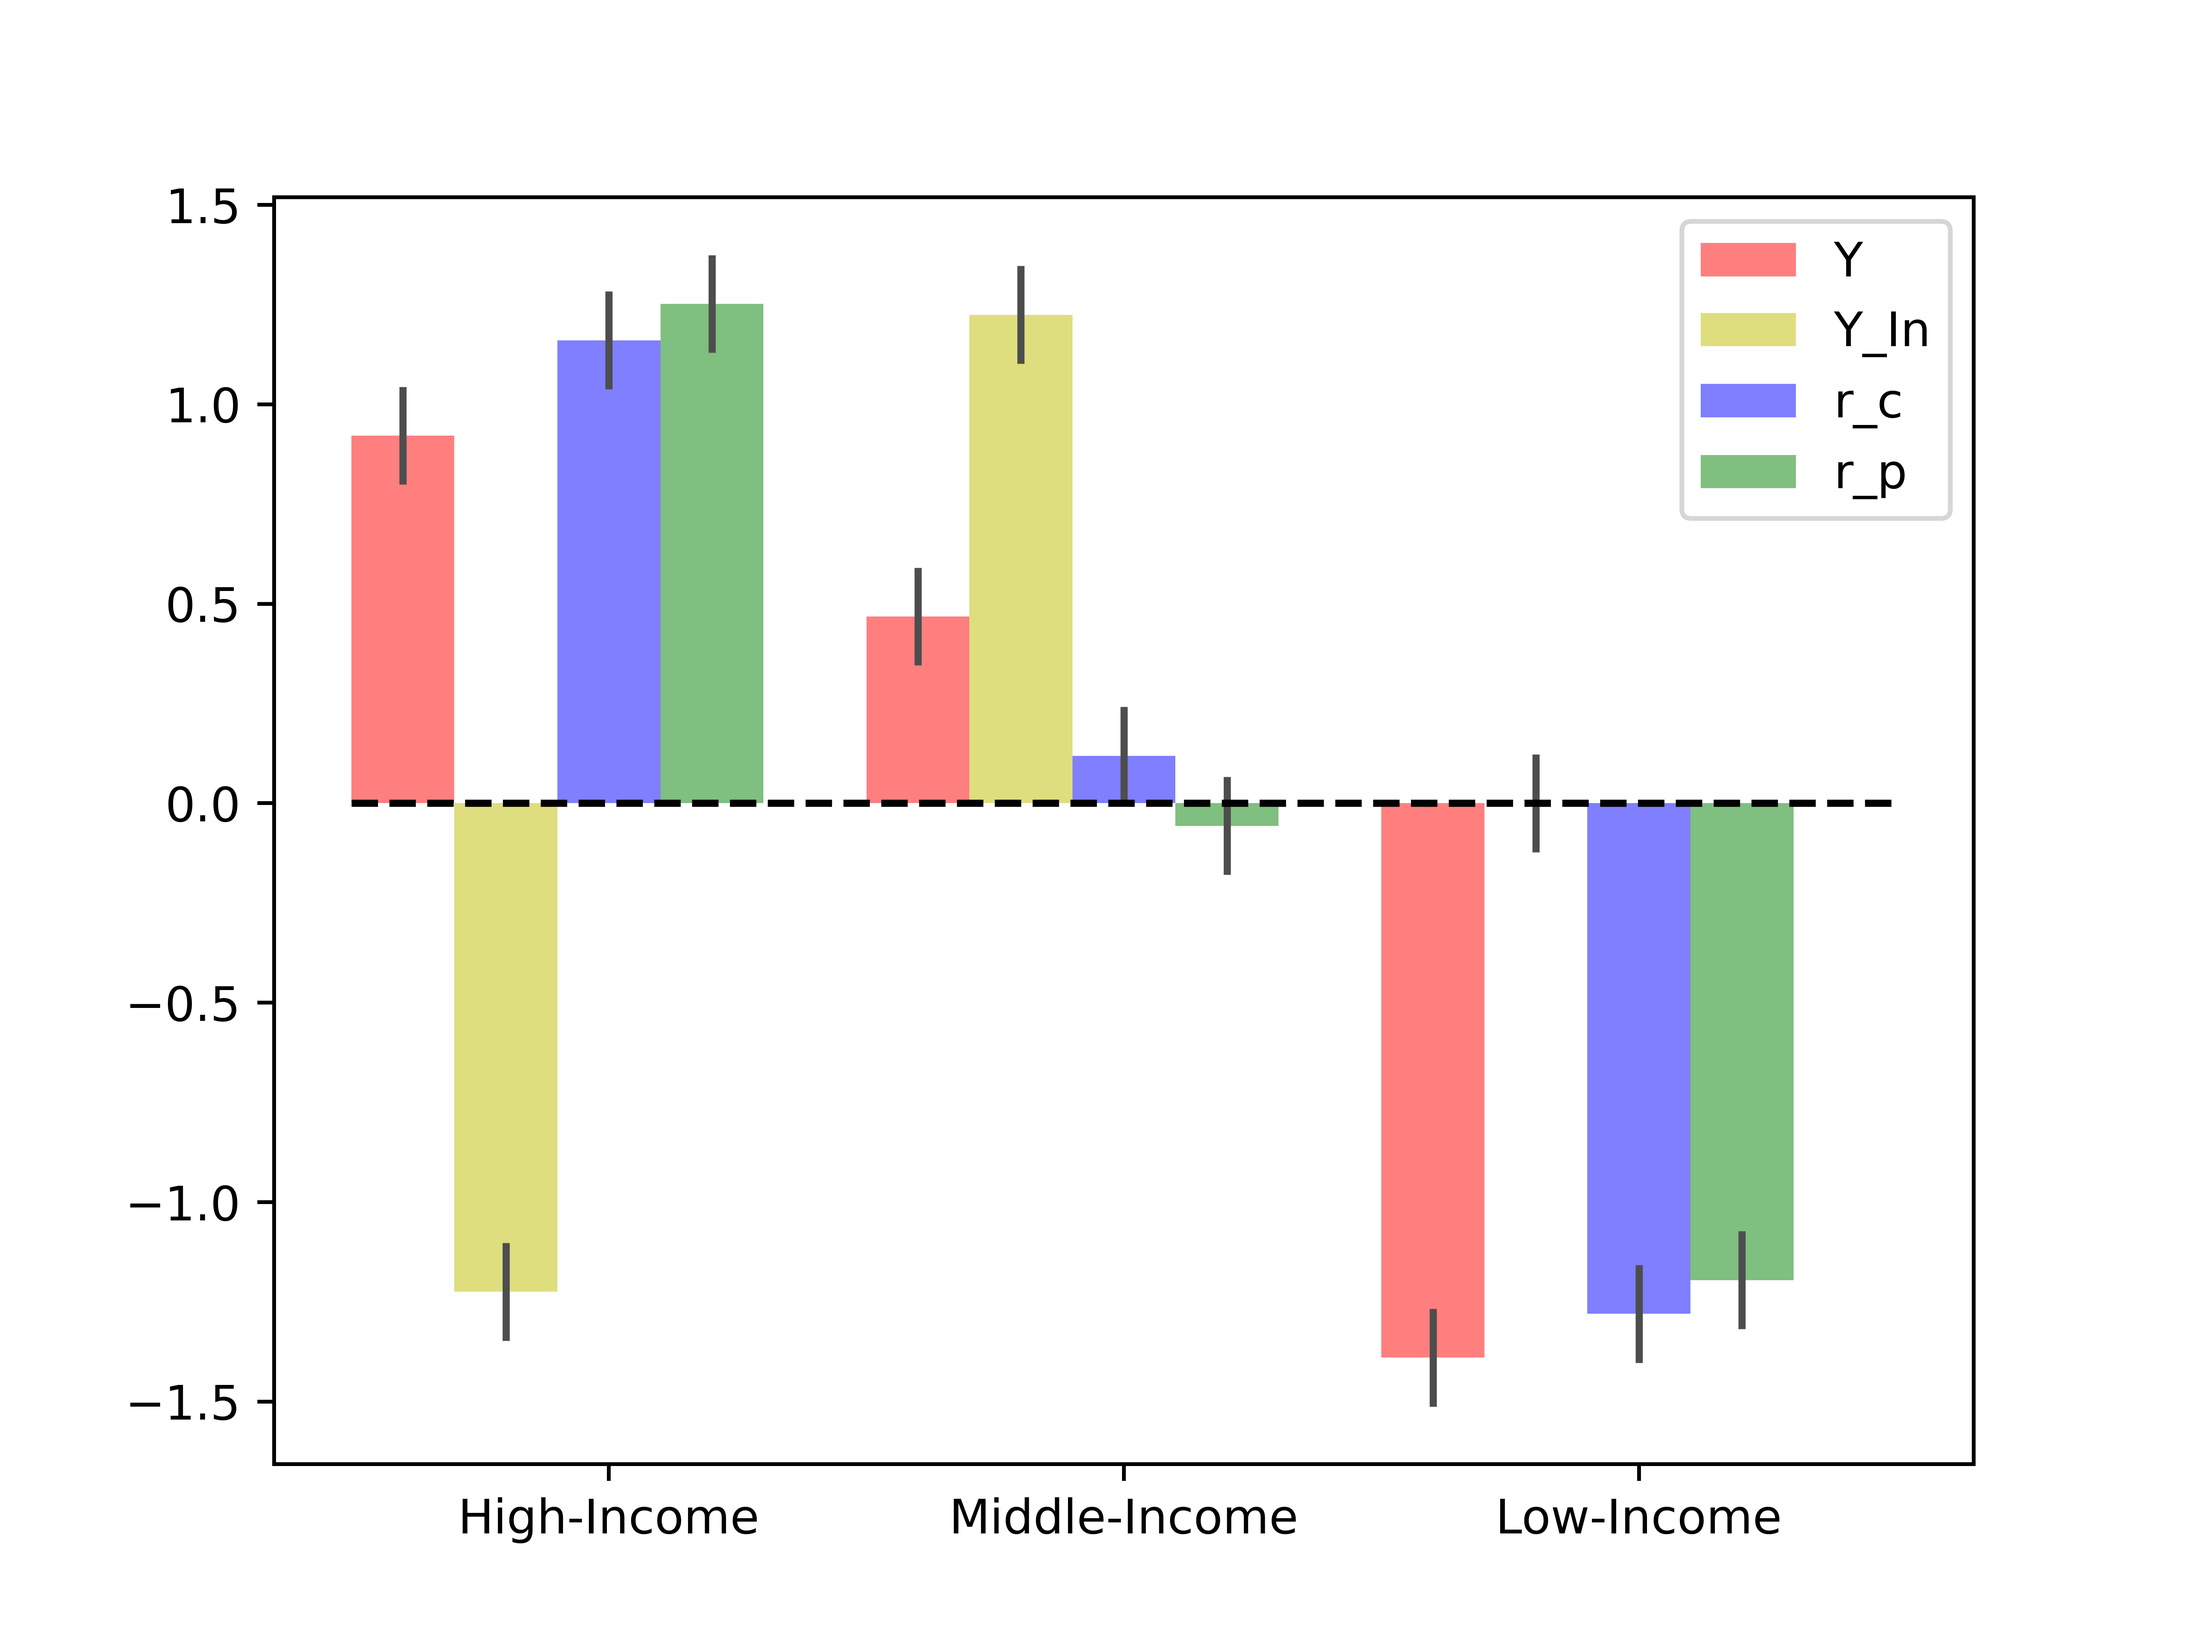
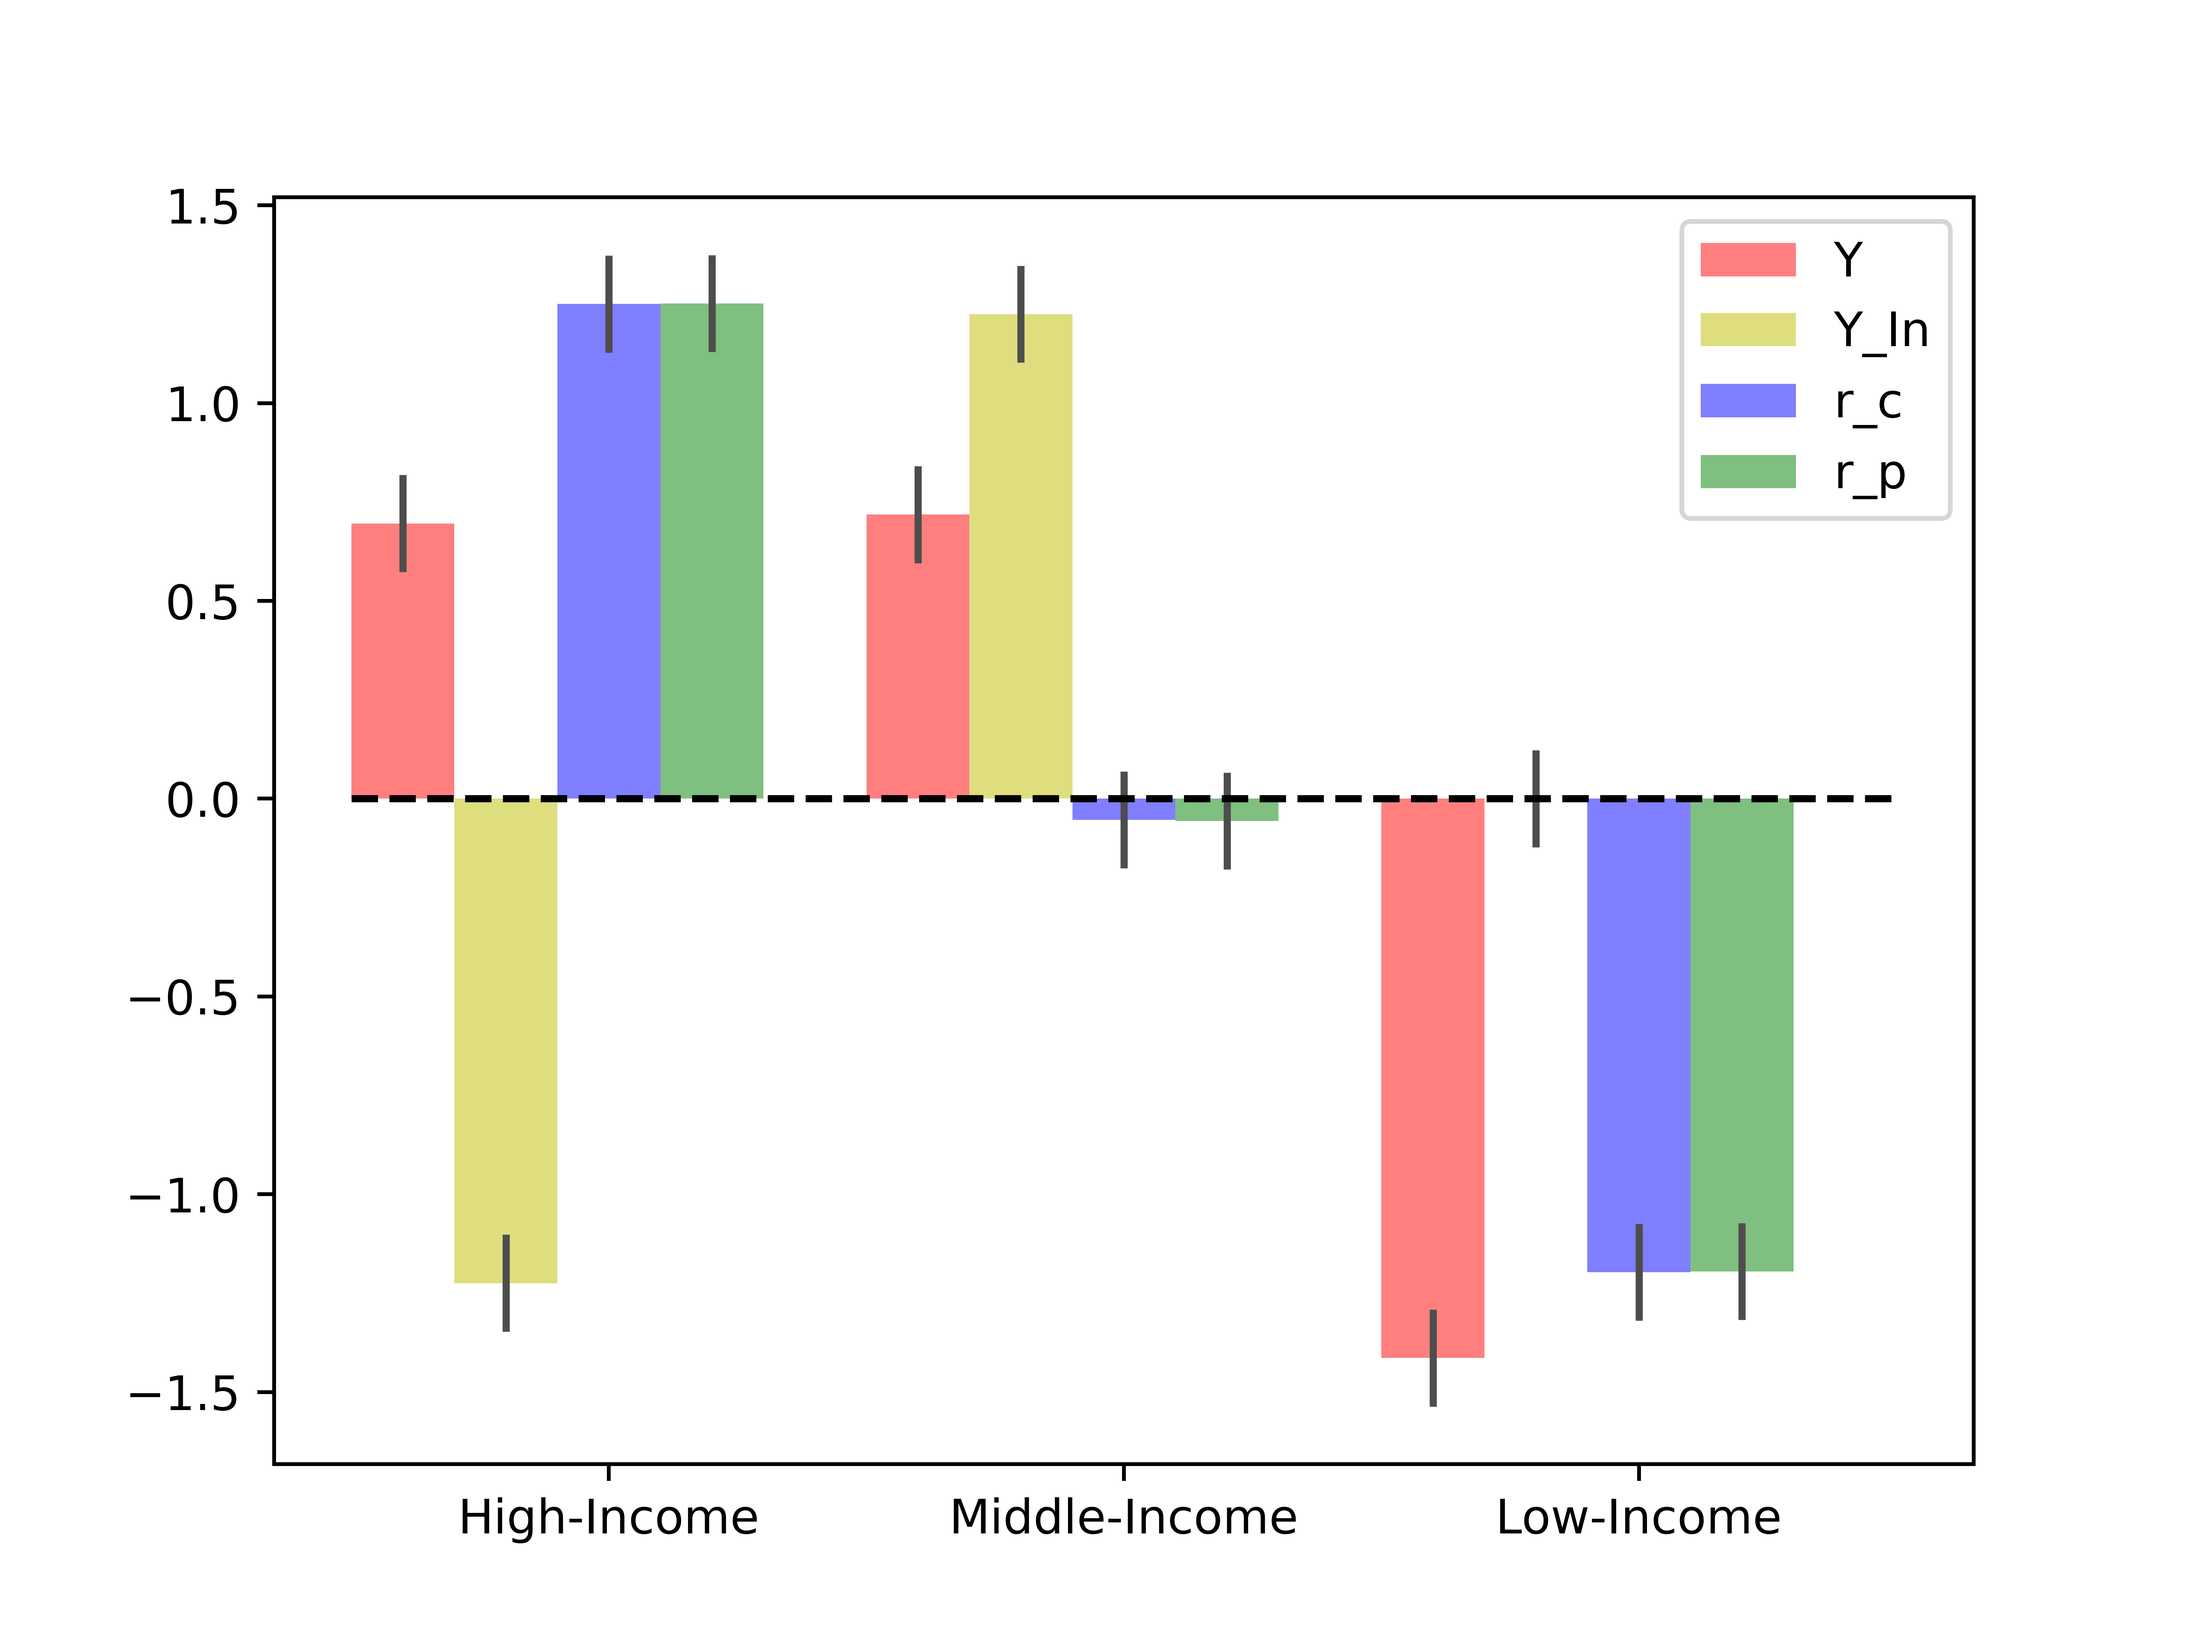
add factor:population

diff --git a/code/Region_Estimation.py b/code/Region_Estimation.py
@@ -2,25 +2,24 @@ import numpy as np
 import pandas as pd
 import matplotlib.pyplot as plt
 W = np.array([
-    [10, 2, 5, 0, 0],
-    [0, 0, 5, 0, 0],
-    [5, 0, 0, 3, 0],
-    [5, 0, 0, 0, 3]
+    [10, 3, 2, 5, 0, 0],
+    [0, 0, 0, 5, 0, 0],
+    [5, -1, 0, 0, 3, 0],
+    [5, 0, 0, 0, 0, 3]
 ])
 
 df = pd.read_excel("data/Region_Estimation.xlsx",
                    sheet_name="standard", index_col="Region")
 data = df.values
 
-
 result = pd.DataFrame((W @ data.T).T, index=df.index,
-                      columns=["Y", "Y_In", "r_c", "r_p"])
+                        columns=["Y", "Y_In", "r_c", "r_p"])
 # print(result)
+
 nan_excel = pd.DataFrame()
 nan_excel.to_excel("result\Region_Estimaiton_Result.xlsx")
 writer = pd.ExcelWriter("result\Region_Estimaiton_Result.xlsx")
 result.to_excel(writer, sheet_name="pre")
-
 result = result.apply(lambda x: ((x-np.mean(x))/np.std(x)))
 # print(result)
 result.to_excel(writer, sheet_name="standard")
@@ -31,6 +30,7 @@ index = np.arange(3)
 error_config = {'ecolor': '0.3'}
 bar_width = 0.2
 fig, ax = plt.subplots()
+
 rect0 = ax.bar(index - 2 * bar_width, result["Y"], bar_width, alpha=0.5,
                color='r', yerr=0.1 * result["Y"].std(), error_kw=error_config, label="Y")
 
